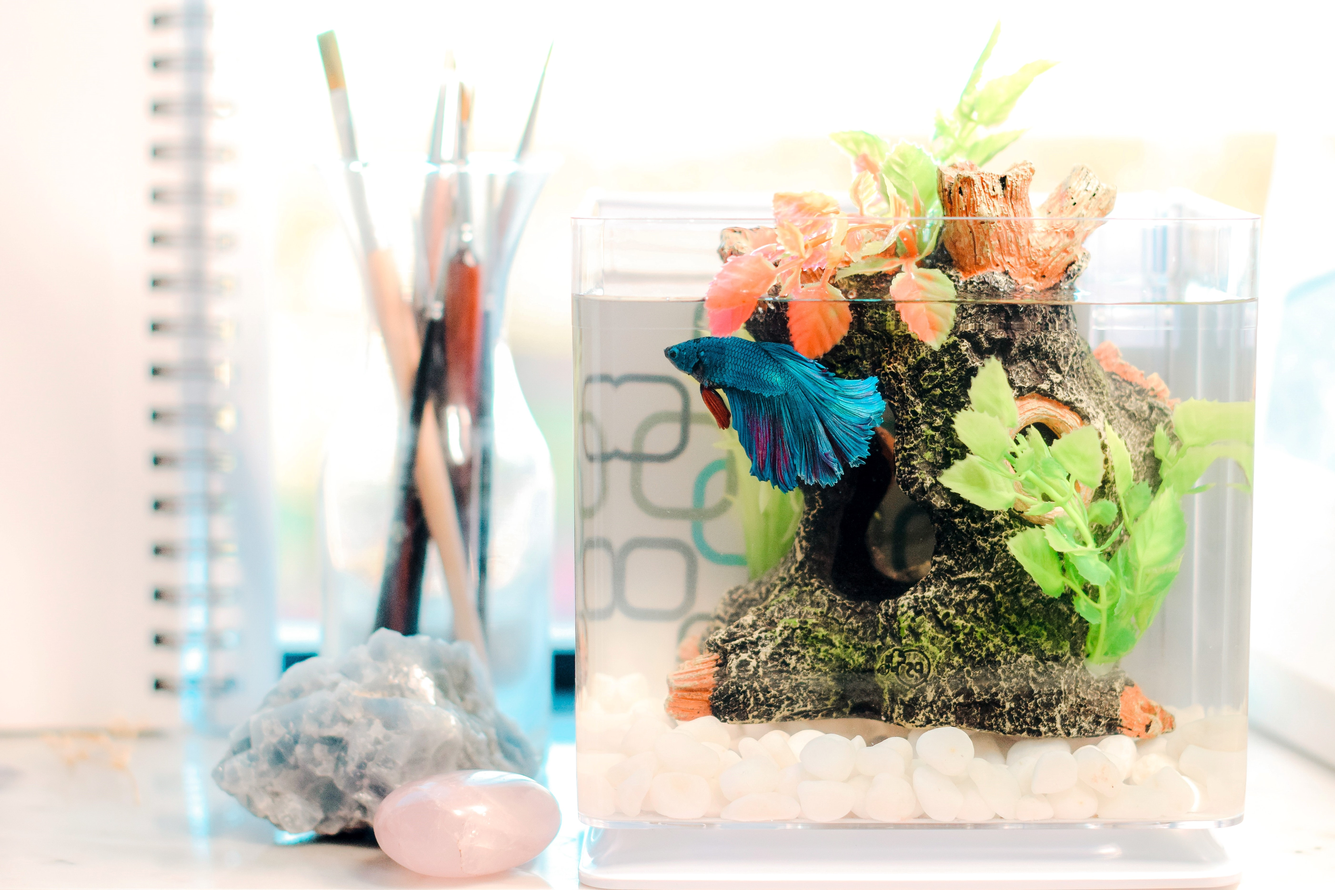
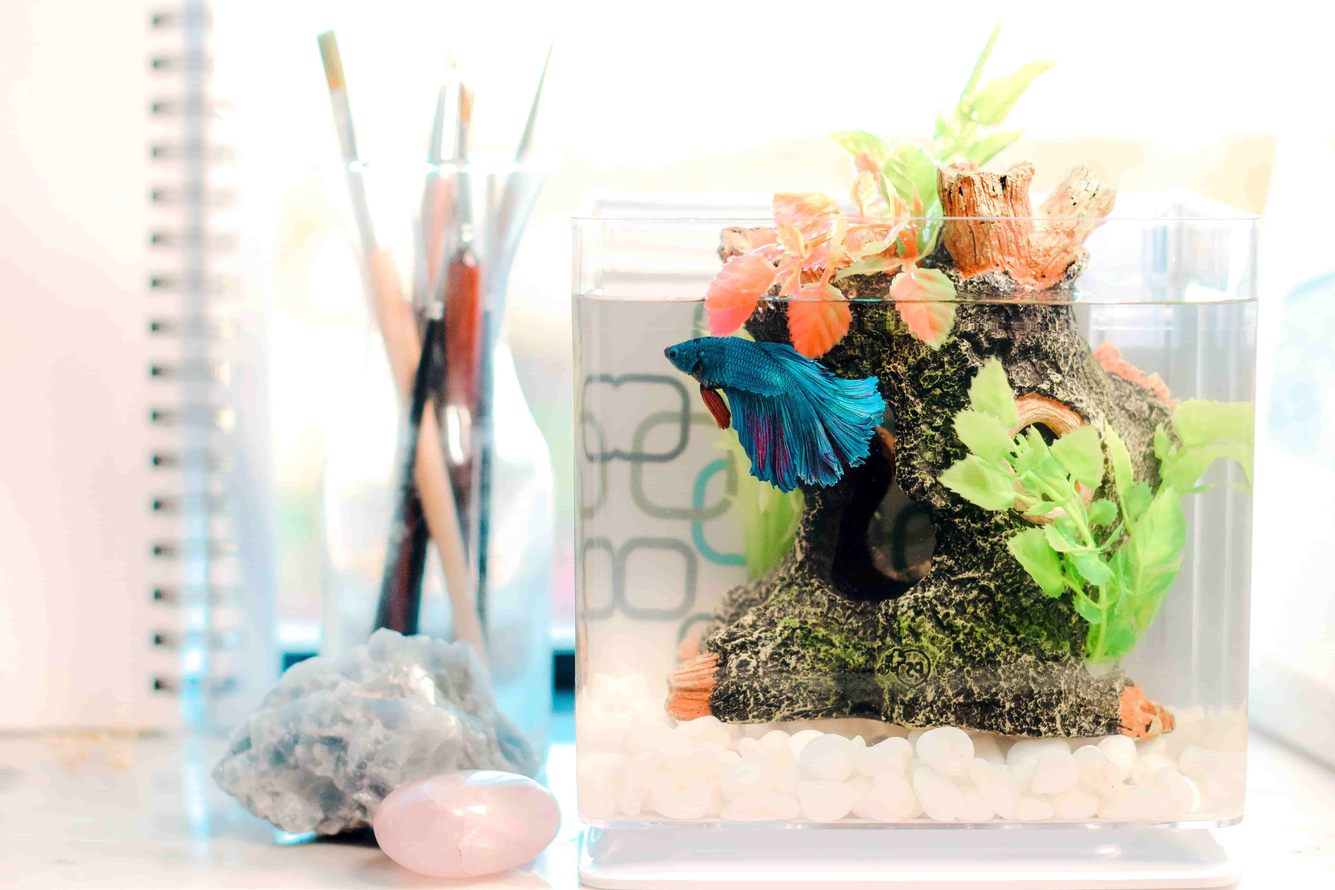
resize ukuran gambar

diff --git a/css/style.css b/css/style.css
@@ -8,7 +8,7 @@
 }
 #hero {
   margin-bottom: 0;
-  width: 100%;
+  width: 100vw;
   height: 640px;
   padding-top: 8.5rem;
   background-image: url("../img/bg.jpg");
